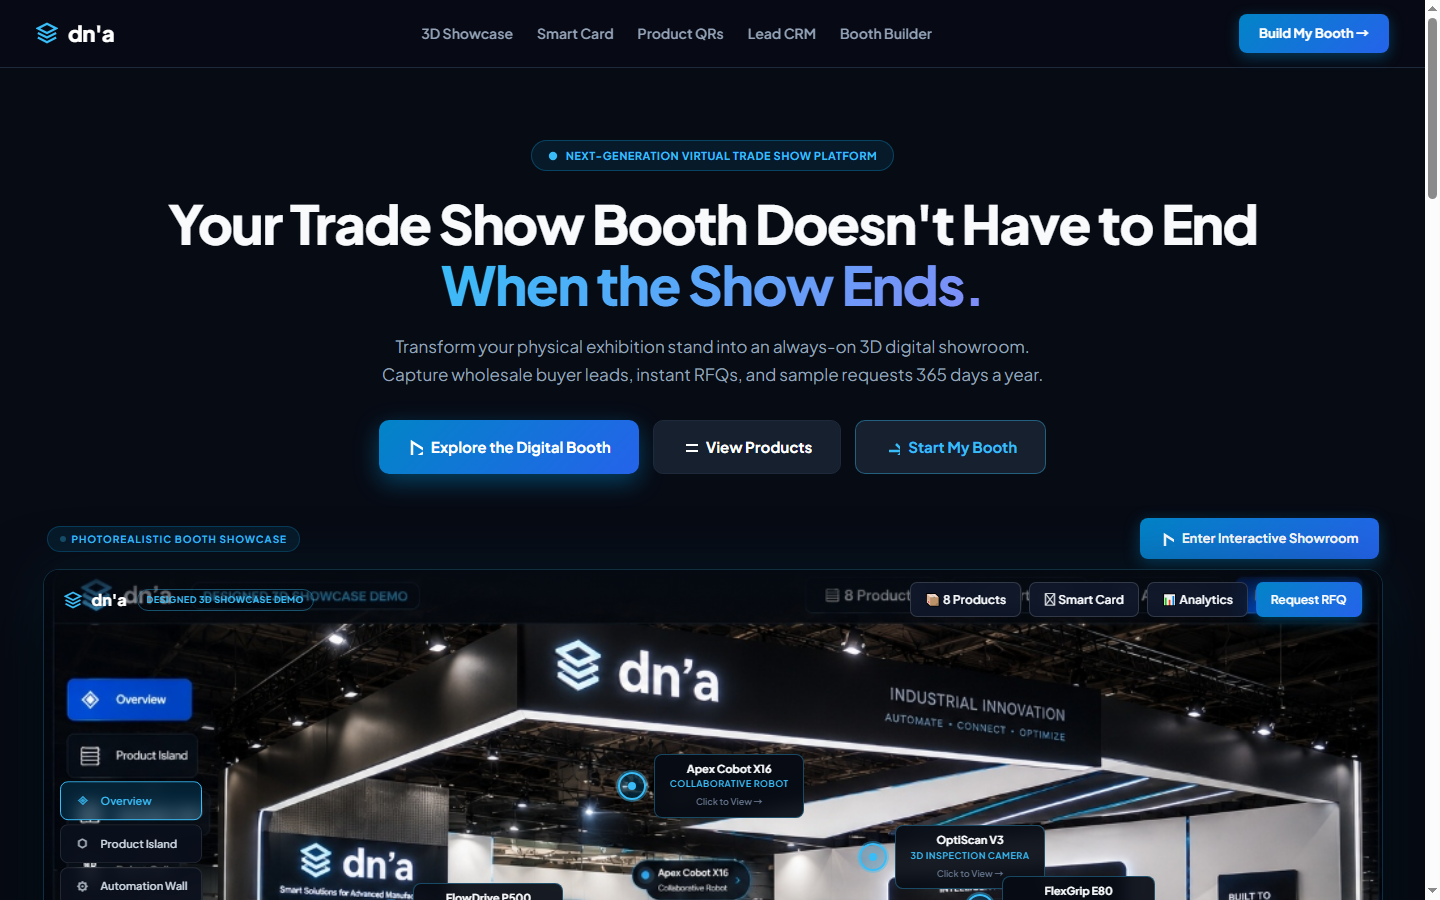
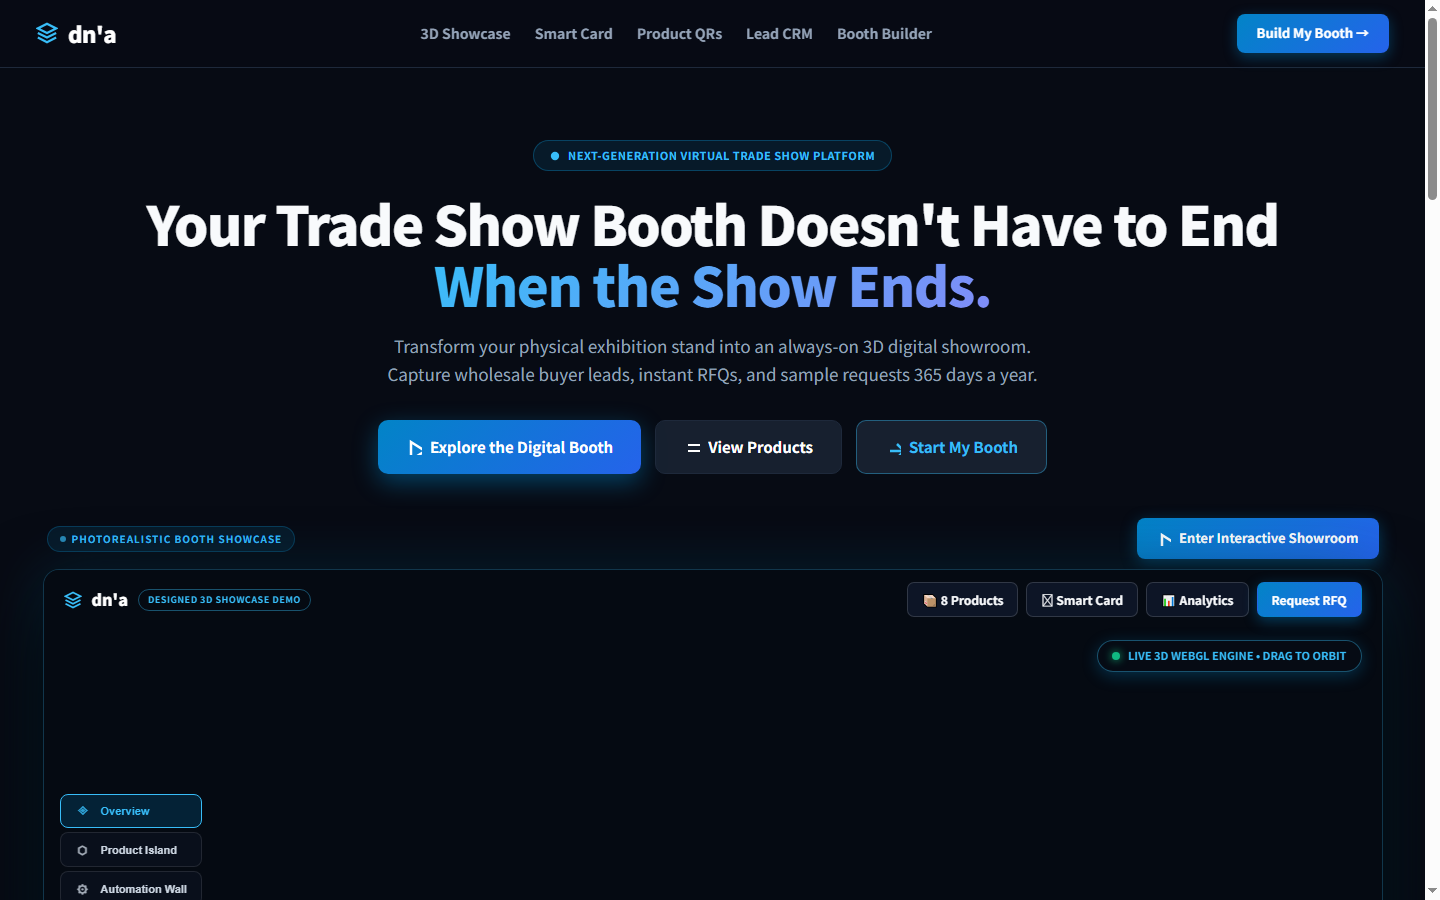
fix(3d): Remove 2D photo loading poster from demo.html, ensure instant WebGL 3D rendering and synchronized client files

diff --git a/virtual-tradeshow-commercial-v1/_clean_deploy/client/demo.html b/virtual-tradeshow-commercial-v1/_clean_deploy/client/demo.html
@@ -297,15 +297,12 @@
 </head>
 <body>
   <div class="app">
-    <!-- Loading Poster (Photorealistic Hero) -->
-    <div id="intro-loader" class="intro-overlay">
-      <img src="/assets/demo/dna-showcase/hero/dna_showcase_photoreal_hero.jpg"
-           alt="dn'a Industrial Innovation Showcase — Loading"
-           class="intro-poster-img">
-      <div class="intro-poster-scrim"></div>
-      <div class="intro-status-bar">
-        <div class="intro-brand-label">dn'a — Industrial Innovation Showcase</div>
-        <div id="intro-status-text" class="intro-status-text">Preparing Interactive Showroom…</div>
+    <!-- Modern Minimal 3D Initialization Loader -->
+    <div id="intro-loader" class="intro-overlay" style="background: rgba(7, 11, 20, 0.92); backdrop-filter: blur(8px);">
+      <div class="intro-status-bar" style="position: absolute; top: 50%; transform: translateY(-50%);">
+        <div style="width: 42px; height: 42px; border: 3px solid rgba(56,189,248,0.2); border-top-color: #38bdf8; border-radius: 50%; animation: spin 0.8s linear infinite; margin-bottom: 12px;"></div>
+        <div class="intro-brand-label">dn'a — LIVE 3D WEBGL ENGINE</div>
+        <div id="intro-status-text" class="intro-status-text">Initializing High-Fidelity 3D Showroom…</div>
         <div class="intro-progress-track">
           <div id="intro-progress-fill" class="intro-progress-fill"></div>
         </div>
@@ -664,10 +661,10 @@
 
         setLoadingStatus('Ready', 100);
 
-        // Opening Cinematic Fly-in → then apply URL params
+        // Instant Reveal 3D Engine
         setTimeout(() => {
           const loader = document.getElementById('intro-loader');
-          if (loader) { loader.classList.add('fade-out'); setTimeout(() => { try { loader.remove(); } catch(e) {} }, 900); }
+          if (loader) { loader.classList.add('fade-out'); setTimeout(() => { try { loader.remove(); } catch(e) {} }, 400); }
 
           const params = new URLSearchParams(window.location.search);
           const presetParam = (params.get('preset') || '').toUpperCase();

diff --git a/virtual-tradeshow-commercial-v1/_railway_deploy/client/demo.html b/virtual-tradeshow-commercial-v1/_railway_deploy/client/demo.html
@@ -297,15 +297,12 @@
 </head>
 <body>
   <div class="app">
-    <!-- Loading Poster (Photorealistic Hero) -->
-    <div id="intro-loader" class="intro-overlay">
-      <img src="/assets/demo/dna-showcase/hero/dna_showcase_photoreal_hero.jpg"
-           alt="dn'a Industrial Innovation Showcase — Loading"
-           class="intro-poster-img">
-      <div class="intro-poster-scrim"></div>
-      <div class="intro-status-bar">
-        <div class="intro-brand-label">dn'a — Industrial Innovation Showcase</div>
-        <div id="intro-status-text" class="intro-status-text">Preparing Interactive Showroom…</div>
+    <!-- Modern Minimal 3D Initialization Loader -->
+    <div id="intro-loader" class="intro-overlay" style="background: rgba(7, 11, 20, 0.92); backdrop-filter: blur(8px);">
+      <div class="intro-status-bar" style="position: absolute; top: 50%; transform: translateY(-50%);">
+        <div style="width: 42px; height: 42px; border: 3px solid rgba(56,189,248,0.2); border-top-color: #38bdf8; border-radius: 50%; animation: spin 0.8s linear infinite; margin-bottom: 12px;"></div>
+        <div class="intro-brand-label">dn'a — LIVE 3D WEBGL ENGINE</div>
+        <div id="intro-status-text" class="intro-status-text">Initializing High-Fidelity 3D Showroom…</div>
         <div class="intro-progress-track">
           <div id="intro-progress-fill" class="intro-progress-fill"></div>
         </div>
@@ -664,10 +661,10 @@
 
         setLoadingStatus('Ready', 100);
 
-        // Opening Cinematic Fly-in → then apply URL params
+        // Instant Reveal 3D Engine
         setTimeout(() => {
           const loader = document.getElementById('intro-loader');
-          if (loader) { loader.classList.add('fade-out'); setTimeout(() => { try { loader.remove(); } catch(e) {} }, 900); }
+          if (loader) { loader.classList.add('fade-out'); setTimeout(() => { try { loader.remove(); } catch(e) {} }, 400); }
 
           const params = new URLSearchParams(window.location.search);
           const presetParam = (params.get('preset') || '').toUpperCase();

diff --git a/virtual-tradeshow-commercial-v1/app_build/client/demo.html b/virtual-tradeshow-commercial-v1/app_build/client/demo.html
@@ -297,15 +297,12 @@
 </head>
 <body>
   <div class="app">
-    <!-- Loading Poster (Photorealistic Hero) -->
-    <div id="intro-loader" class="intro-overlay">
-      <img src="/assets/demo/dna-showcase/hero/dna_showcase_photoreal_hero.jpg"
-           alt="dn'a Industrial Innovation Showcase — Loading"
-           class="intro-poster-img">
-      <div class="intro-poster-scrim"></div>
-      <div class="intro-status-bar">
-        <div class="intro-brand-label">dn'a — Industrial Innovation Showcase</div>
-        <div id="intro-status-text" class="intro-status-text">Preparing Interactive Showroom…</div>
+    <!-- Modern Minimal 3D Initialization Loader -->
+    <div id="intro-loader" class="intro-overlay" style="background: rgba(7, 11, 20, 0.92); backdrop-filter: blur(8px);">
+      <div class="intro-status-bar" style="position: absolute; top: 50%; transform: translateY(-50%);">
+        <div style="width: 42px; height: 42px; border: 3px solid rgba(56,189,248,0.2); border-top-color: #38bdf8; border-radius: 50%; animation: spin 0.8s linear infinite; margin-bottom: 12px;"></div>
+        <div class="intro-brand-label">dn'a — LIVE 3D WEBGL ENGINE</div>
+        <div id="intro-status-text" class="intro-status-text">Initializing High-Fidelity 3D Showroom…</div>
         <div class="intro-progress-track">
           <div id="intro-progress-fill" class="intro-progress-fill"></div>
         </div>
@@ -664,10 +661,10 @@
 
         setLoadingStatus('Ready', 100);
 
-        // Opening Cinematic Fly-in → then apply URL params
+        // Instant Reveal 3D Engine
         setTimeout(() => {
           const loader = document.getElementById('intro-loader');
-          if (loader) { loader.classList.add('fade-out'); setTimeout(() => { try { loader.remove(); } catch(e) {} }, 900); }
+          if (loader) { loader.classList.add('fade-out'); setTimeout(() => { try { loader.remove(); } catch(e) {} }, 400); }
 
           const params = new URLSearchParams(window.location.search);
           const presetParam = (params.get('preset') || '').toUpperCase();
